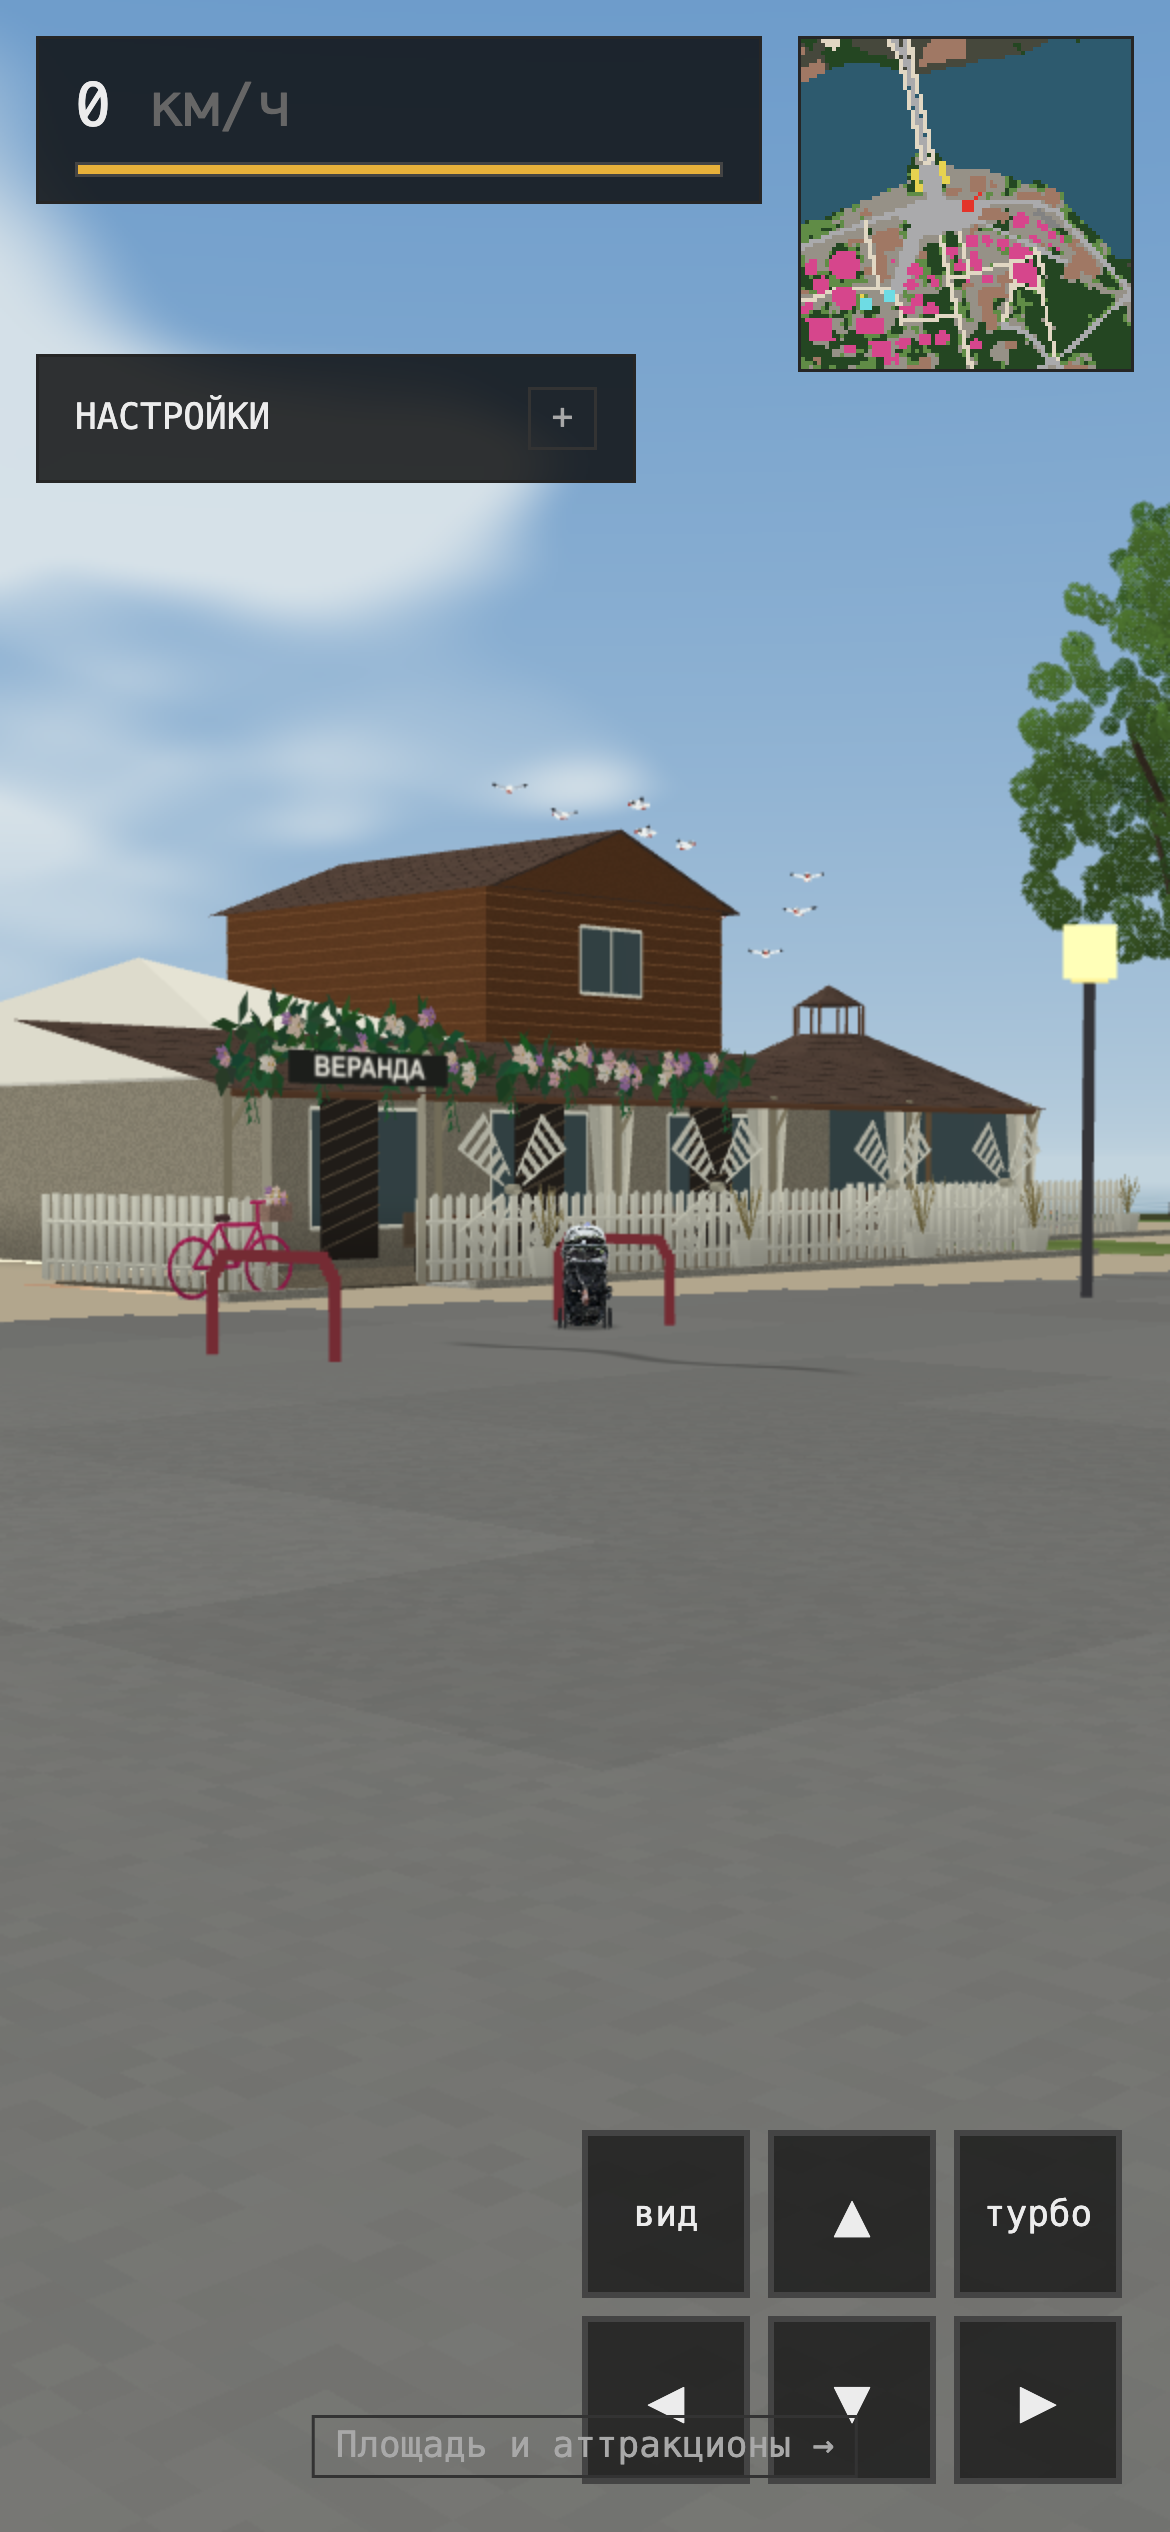
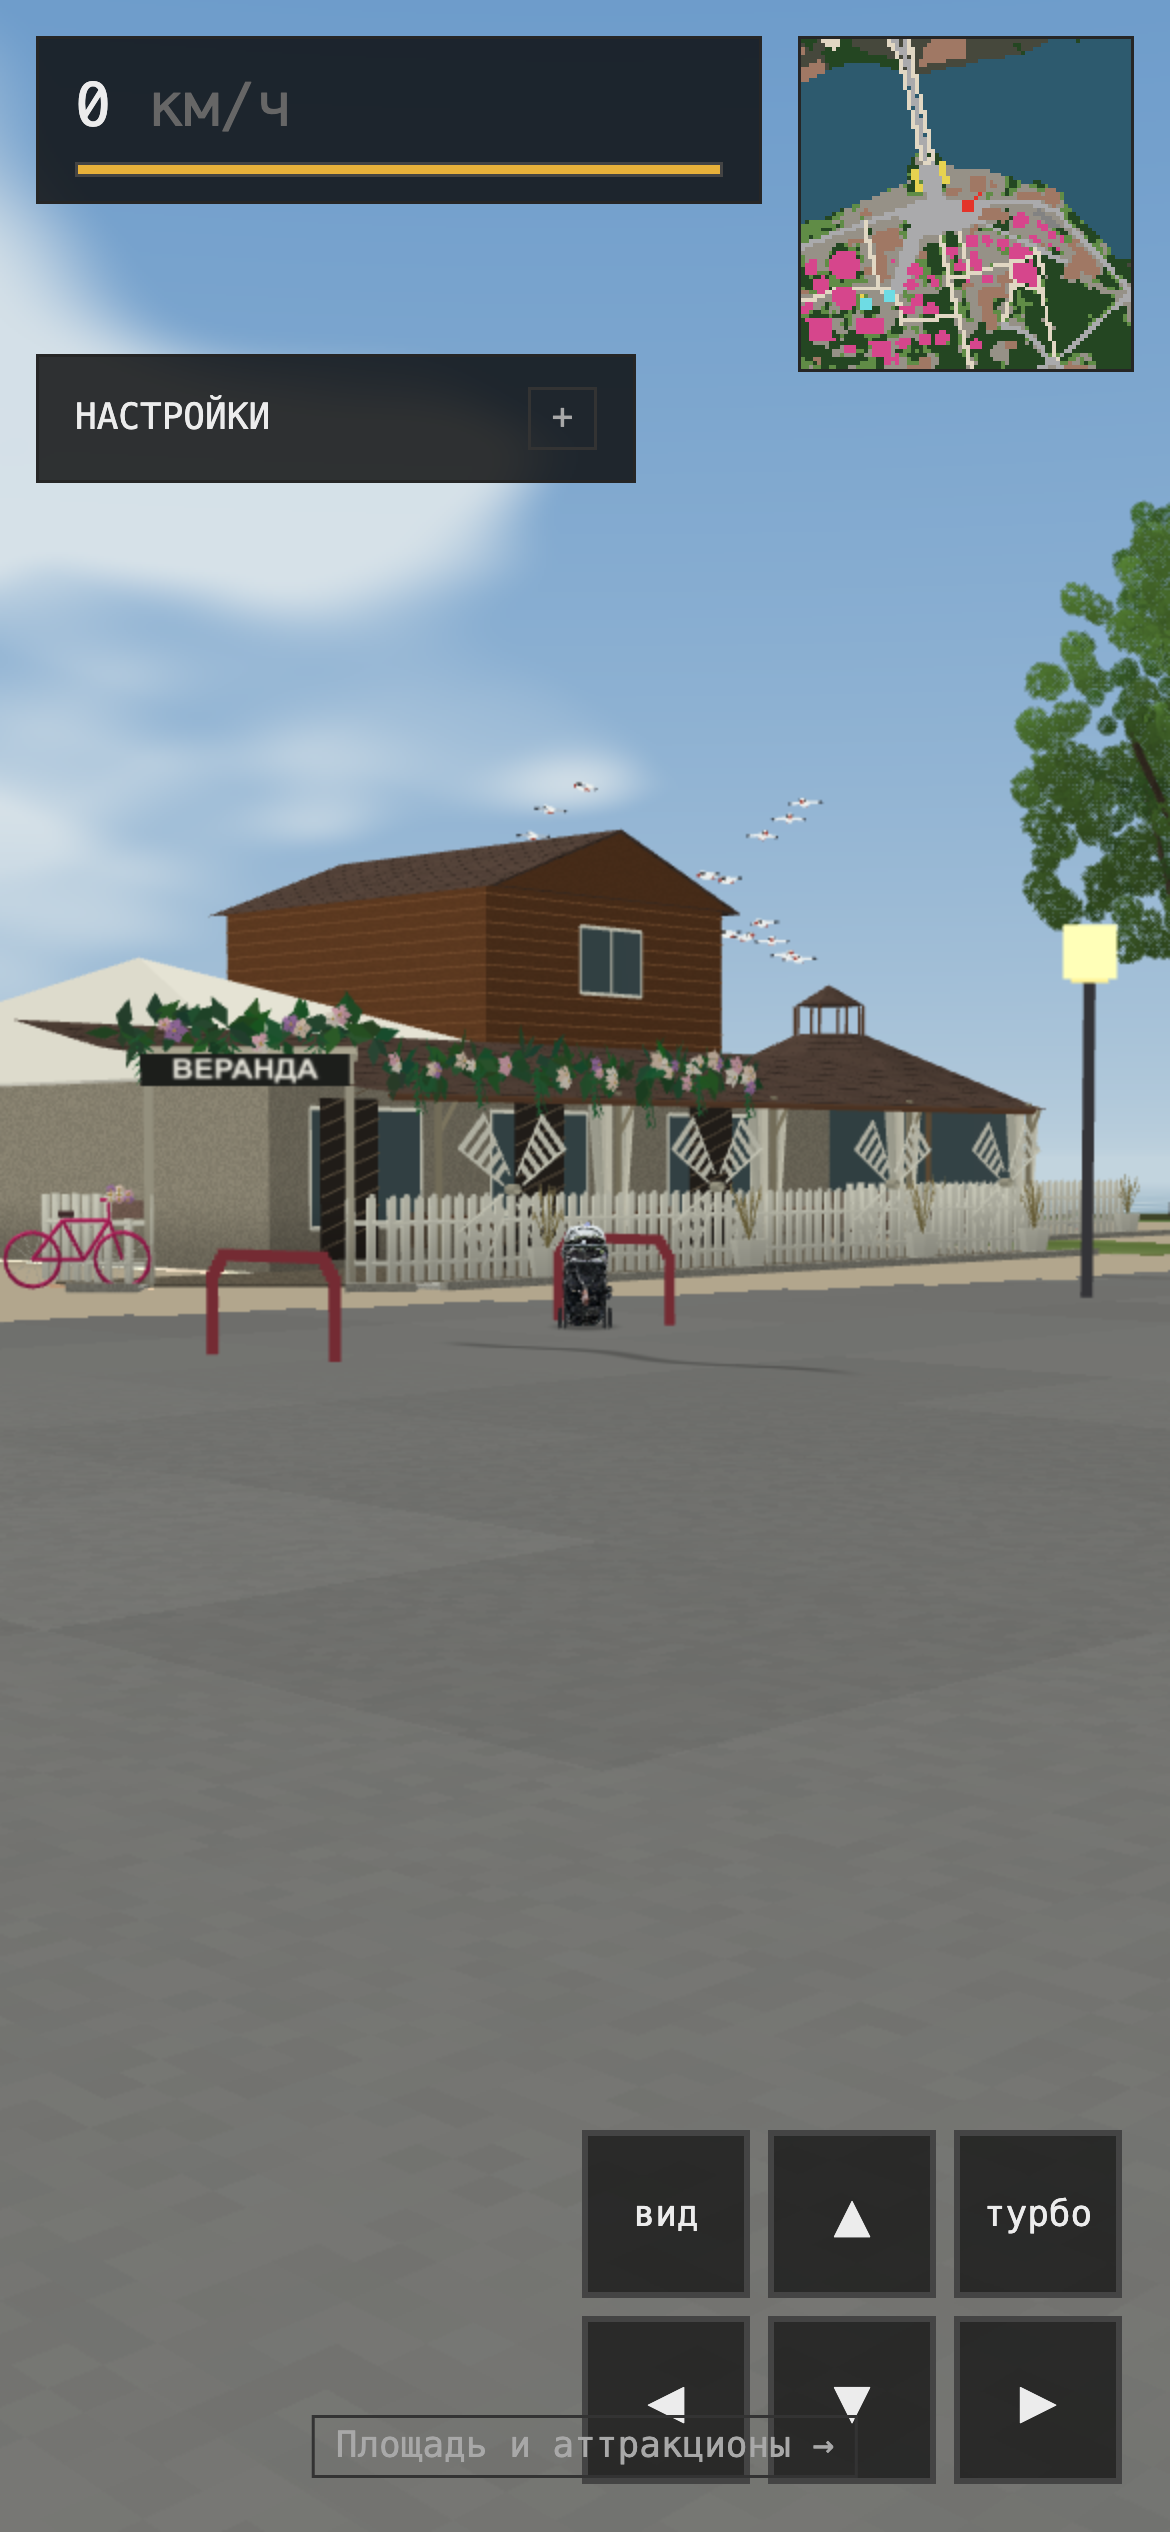
Turn Veranda entrance diagonally toward the bridge

diff --git a/park-veranda.js b/park-veranda.js
@@ -7,8 +7,20 @@ function frame(e){
  const right=[(b[0]-a[0])/width,(b[1]-a[1])/width],front=[-right[1],right[0]];
  return {width,depth,right,front,at:(x,y,d)=>[a[0]+right[0]*x+front[0]*d,y,a[1]+right[1]*x+front[1]*d]};
 }
-function tools(g,e){
- const f=frame(e),at=f.at;
+// The entrance cuts the southwest corner, facing the approach from the bridge.
+function entrance(){
+ const left=[-3.5,1.07],right=[-.95,3.62],center=[(left[0]+right[0])/2,(left[1]+right[1])/2],s=Math.SQRT1_2;
+ return {left,right,center,halfWidth:1.275,halfCorner:Math.hypot(right[0]-left[0],right[1]-left[1])/2,
+  at:(u,y,d)=>[center[0]+s*(u-d),y,center[1]+s*(u+d)]};
+}
+function frontage(e){
+ const gate=entrance(),right=frame(e).width+1;
+ const a=gate.at(-gate.halfWidth,0,0),b=gate.at(gate.halfWidth,0,0);
+ return [[[-3.5,-.3],gate.left],[gate.left,[a[0],a[2]]],[[b[0],b[2]],gate.right],
+  [gate.right,[right,3.62]],[[right,-.3],[right,3.62]]];
+}
+function tools(g,e,localAt){
+ const f=frame(e),at=localAt?(x,y,d)=>f.at(...localAt(x,y,d)):f.at;
  const quad=(a,b,c,d,color,mat=7)=>g.quad(at(...a),at(...b),at(...c),at(...d),color,mat);
  const tri=(a,b,c,color,mat=7)=>g.tri(at(...a),at(...b),at(...c),color,mat);
  const beam=(a,b,r,color=C.wood,mat=7,sides=4)=>g.beam(at(...a),at(...b),r,color,mat,sides);
@@ -140,11 +152,17 @@ function main(g,e){
  quad([bx-bw/2-.24,6.20,front+.28],[bx,7.46,front+.28],[bx,7.46,back-.28],[bx-bw/2-.24,6.20,back-.28],C.roof,14);
  quad([bx,7.46,front+.28],[bx+bw/2+.24,6.20,front+.28],[bx+bw/2+.24,6.20,back-.28],[bx,7.46,back-.28],C.roof,14);
  // An open covered terrace projects toward the promenade.
- const left=-3.5,right=W+1.0,frontD=3.62;
- box((left+right)/2,.015,1.75,right-left,.035,3.7,[.51,.47,.39],1);
- quad([left-.15,2.48,frontD+.2],[right+.15,2.48,frontD+.2],[right+.15,3.48,-.8],[left-.15,3.48,-.8],C.roof,14);
- beam([left,2.46,frontD],[right,2.46,frontD],.065,C.wood);
+ const left=-3.5,right=W+1.0,frontD=3.62,gate=entrance(),entry=tools(g,e,gate.at);
+ const deck=[[left,-.1],[left,gate.left[1]],gate.right,[right,frontD],[right,-.1]];
+ for(let i=1;i<deck.length-1;i++)tri([deck[0][0],.05,deck[0][1]],[deck[i][0],.05,deck[i][1]],[deck[i+1][0],.05,deck[i+1][1]],[.51,.47,.39],1);
+ for(let i=0;i<deck.length;i++){
+  const a=deck[i],b=deck[(i+1)%deck.length];quad([a[0],.015,a[1]],[b[0],.015,b[1]],[b[0],.05,b[1]],[a[0],.05,a[1]],[.51,.47,.39],1);
+ }
+ const roof=[[left-.15,-.8],[left-.15,gate.left[1]+.06],[gate.right[0]-.06,frontD+.2],[right+.15,frontD+.2],[right+.15,-.8]],roofAt=p=>[p[0],3.48-(p[1]+.8)/4.62,p[1]];
+ for(let i=1;i<roof.length-1;i++)tri(roofAt(roof[0]),roofAt(roof[i]),roofAt(roof[i+1]),C.roof,14);
+ beam([gate.right[0],2.46,frontD],[right,2.46,frontD],.065,C.wood);
  for(let x=left;x<=right+.1;x+=(right-left)/5){
+  if(x<gate.right[0])continue;
   beam([x,.04,frontD-.1],[x,2.59,frontD-.1],.065,[.56,.53,.43]);
   beam([x,1.93,frontD-.12],[x+.38,2.47,frontD-.12],.042,[.56,.53,.43]);
   if(x>0){curtain(t,x,frontD-.20,-1);curtain(t,x,frontD-.20,1);}
@@ -155,24 +173,27 @@ function main(g,e){
   for(let y=.35;y<2.4;y+=.25)beam([x-.55,y,.25],[x+.55,y+.38,.25],.014,[.39,.34,.27]);
   table(t,x+1,1.5);
  }
- pickets(t,[left,frontD],[left+.6,frontD]);pickets(t,[-.45,frontD],[right,frontD]);
- pickets(t,[left,-.3],[left,frontD]);pickets(t,[right,-.3],[right,frontD]);
+ for(const [a,b] of frontage(e))pickets(t,a,b);
  // The gravel border and its curb follow the front fence, with a gap at the gate.
- for(const [a,b] of [[left-.9,left+.65],[-.45,right+.45]]){
+ for(const [a,b] of [[gate.right[0],right+.45]]){
   box((a+b)/2,.01,4.13,b-a,.045,.82,[.91,.91,.86],1);
   box((a+b)/2,.005,4.58,b-a,.11,.15,C.stone,1);
  }
+ for(const [a,b] of [[-gate.halfCorner-.35,-gate.halfWidth],[gate.halfWidth,gate.halfCorner+.35]]){
+  entry.box((a+b)/2,.01,.51,b-a,.045,.82,[.91,.91,.86],1);
+  entry.box((a+b)/2,.005,.96,b-a,.11,.15,C.stone,1);
+ }
  for(const x of [1.1,5.3,9.6,12.8]){windmill(t,x,frontD+.14);planter(t,x+.25,4.15);}
- // A separate floral entrance arch sits beside Tut Coffee, before the picket run.
- for(const x of [left+.5,-.45])beam([x,.025,frontD+.02],[x,3.0,frontD+.02],.075,[.72,.70,.61]);
- beam([left+.40,2.98,frontD+.02],[-.35,2.98,frontD+.02],.095,[.72,.70,.61]);
+ // Arch, sign, flowers and bicycle share the same 45-degree entrance frame.
+ for(const u of [-gate.halfWidth,gate.halfWidth])entry.beam([u,.025,0],[u,3.0,0],.075,[.72,.70,.61]);
+ entry.beam([-gate.halfWidth-.10,2.98,0],[gate.halfWidth+.10,2.98,0],.095,[.72,.70,.61]);
  const start=g.data.length;
- quad([left+.47,2.56,frontD+.48],[-.42,2.56,frontD+.48],[-.42,2.96,frontD+.48],[left+.47,2.96,frontD+.48],[0,0,0],15);
+ entry.quad([-1.305,2.56,.46],[1.305,2.56,.46],[1.305,2.96,.46],[-1.305,2.96,.46],[0,0,0],15);
  const uv=[[.02,.95],[.98,.95],[.98,.05],[.02,.95],[.98,.05],[.02,.05]];
  for(let i=0;i<6;i++){g.data[start+i*10+6]=uv[i][0];g.data[start+i*10+7]=uv[i][1];}
- garland(t,left-.18,W*.48,frontD+.11,2.89,7541);
- garland(t,left+.1,-.15,frontD+.11,3.24,3382);
- bicycle(t,left-.45,4.15);
+ garland(t,gate.right[0],W*.48,frontD+.11,2.89,7541);
+ garland(entry,-1.625,1.625,.09,3.24,3382);
+ bicycle(entry,-2.10,.51);
 }
 function gazebo(g,e){
  const t=tools(g,e),{f,quad,tri,beam,box}=t,x=f.width/2,d=-f.depth/2,R=Math.min(f.width,f.depth)*.445;
@@ -204,7 +225,7 @@ function applyGround(cats,park,entries){
   const dx=b[0]-a[0],dz=b[1]-a[1],len=Math.hypot(dx,dz),nx=-dz/len*r,nz=dx/len*r;
   return [[a[0]+nx,a[1]+nz],[b[0]+nx,b[1]+nz],[b[0]-nx,b[1]-nz],[a[0]-nx,a[1]-nz]];
  };
- const fences=[strip(at(-3.5,3.62),at(-2.9,3.62),.20),strip(at(-.45,3.62),at(W+1,3.62),.20),strip(at(-3.5,-.3),at(-3.5,3.62),.20),strip(at(W+1,-.3),at(W+1,3.62),.20)];
+ const fences=frontage(e).map(([a,b])=>strip(at(...a),at(...b),.20));
  const gf=frame(gazeboEntry),ga=gf.at(.6,0,.28),gb=gf.at(gf.width-.6,0,.28);fences.push(strip([ga[0],ga[2]],[gb[0],gb[2]],.20));
  const octagon=footprint(gazeboEntry),inside=(p,x,z)=>{let hit=false;for(let i=0,j=p.length-1;i<p.length;j=i++)if((p[i][1]>z)!==(p[j][1]>z)&&x<(p[j][0]-p[i][0])*(z-p[i][1])/(p[j][1]-p[i][1])+p[i][0])hit=!hit;return hit;};
  const nearOldGazebo=(x,z)=>gazeboEntry.pts.some((a,i)=>{
@@ -227,6 +248,6 @@ function atlas(){
  c.textAlign='center';c.textBaseline='middle';c.fillStyle='#f4f2e7';c.font='bold 148px Arial, sans-serif';
  c.save();c.translate(512,101);c.scale(.96,1);c.fillText('ВЕРАНДА',0,0);c.restore();return canvas;
 }
-const api={frame,main,gazebo,footprint,clearsTree,applyGround,atlas};
+const api={frame,entrance,main,gazebo,footprint,clearsTree,applyGround,atlas};
 if(typeof module!=='undefined'&&module.exports)module.exports=api;else root.ParkVeranda=api;
 })(typeof window!=='undefined'?window:globalThis);

diff --git a/tests/veranda.test.js b/tests/veranda.test.js
@@ -28,6 +28,14 @@ test('Veranda has an open floral terrace, white fence, pink bicycle and a shingl
  assert(g.data.some((v,i)=>i%10===1&&v>5.3),'the gazebo has a raised roof lantern');
 });
 
+test('the entrance sign faces the bridge at 45 degrees to the promenade',()=>{
+ const mesh=Meshes.build(main),f=Veranda.frame(main),sign=[];
+ for(let i=0;i<mesh.data.length;i+=10)if(mesh.data[i+9]===15)sign.push(Array.from(mesh.data.subarray(i,i+3)));
+ const dx=sign[1][0]-sign[0][0],dz=sign[1][2]-sign[0][2],length=Math.hypot(dx,dz);
+ const along=(dx*f.right[0]+dz*f.right[1])/length,towardStreet=(dx*f.front[0]+dz*f.front[1])/length;
+ assert(Math.abs(along-Math.SQRT1_2)<1e-5&&Math.abs(towardStreet-Math.SQRT1_2)<1e-5,'the delivered sign geometry must follow the diagonal southwest entrance');
+});
+
 test('the entrance stays passable, the terrace fence blocks, and the gazebo frees its old square corners',()=>{
  const cats=new Uint8Array(park.w*park.h).fill(75),index=(x,z)=>Math.floor((z-park.z0)/park.mpp)*park.w+Math.floor((x-park.x0)/park.mpp);
  for(const e of [main,gazebo]){
@@ -36,7 +44,9 @@ test('the entrance stays passable, the terrace fence blocks, and the gazebo free
  }
  const f=Veranda.frame(main),at=(x,d)=>{const p=f.at(x,0,d);return index(p[0],p[2]);},gf=Veranda.frame(gazebo),corner=gf.at(.3,0,-.3),water=index(55,-430),coffee=index(33,-406);
  cats[water]=68;cats[coffee]=69;Veranda.applyGround(cats,park,all);
- assert.equal(cats[at(-1.6,3.62)],75,'the gate in the left floral arch is open');
+ const gate=Veranda.entrance();
+ for(const d of [-.8,0,.8]){const p=gate.at(0,0,d);assert.equal(cats[at(p[0],p[2])],75,'the diagonal gate and its approach are open');}
+ const end=gate.at(1.65,0,0);assert.equal(cats[at(end[0],end[2])]&31,13,'the diagonal fence meets the right arch post');
  assert.equal(cats[at(5,3.62)]&31,13,'the white picket fence blocks the stroller');
  assert.equal(cats[at(5,7.5)],75,'the public promenade remains open');
  assert.equal(cats[index(gazebo.cx,gazebo.cz)]&31,5);

diff --git a/park.html b/park.html
@@ -155,13 +155,13 @@
 <script src="park-transylvania.js?v=20261022-transylvania1"></script>
 <script src="park-upside-down-house.js?v=20261022-shore1"></script>
 <script src="park-house-surroundings.js?v=20261022-shore2"></script>
-<script src="park-veranda.js?v=20261022-veranda1"></script>
-<script src="park-meshes.js?v=20261022-veranda1"></script>
+<script src="park-veranda.js?v=20261022-veranda2"></script>
+<script src="park-meshes.js?v=20261022-veranda2"></script>
 <script src="park-atmosphere.js?v=20261022-natural1"></script>
 <script src="park-performance.js"></script>
 <script src="park-streaming.js"></script>
 <script src="small-wildlife.js?v=20261021-small-animals"></script>
 <script src="jay-voice.js?v=20261021-sonogram"></script>
-<script src="park.js?v=20261022-veranda1"></script>
+<script src="park.js?v=20261022-veranda2"></script>
 </body>
 </html>

diff --git a/park.js b/park.js
@@ -2357,7 +2357,7 @@
       loadImage('park/ground.png?v=20261020-approach2'),
       loadImage('park/albedo.jpg'),
       fetch('park/scans.json').then(function (r) { if (!r.ok) throw new Error('scans.json ' + r.status); return r.json(); }),
-      fetch('park/stream-manifest.json?v=20261022-veranda1').then(function(r) {if(!r.ok) throw new Error('stream manifest '+r.status);return r.json();}),
+      fetch('park/stream-manifest.json?v=20261022-veranda2').then(function(r) {if(!r.ok) throw new Error('stream manifest '+r.status);return r.json();}),
     ]);
     park = res[0];
     var meshEntries=ParkMeshes.entries(park);

diff --git a/tests/veranda_browser.py b/tests/veranda_browser.py
@@ -83,13 +83,15 @@ with sync_playwright() as p:
     probes=page.evaluate("""async () => {
       const park=await (await fetch('park/park.json')).json(),entries=ParkMeshes.entries(park);
       const e=entries.find(e=>e.kind==='veranda'),g=entries.find(e=>e.kind==='verandaGazebo');
-      const f=ParkVeranda.frame(e),gf=ParkVeranda.frame(g),p=(name,q,blocked)=>({name,x:q[0],z:q[2],blocked});
-      return [p('floral_gate',f.at(-1.6,0,3.62),false),p('picket_fence',f.at(5,0,3.62),true),
+      const f=ParkVeranda.frame(e),gf=ParkVeranda.frame(g),p=(name,q,blocked,heading=0)=>({name,x:q[0],z:q[2],blocked,heading});
+      const gate=ParkVeranda.entrance(),q=gate.at(0,0,0),end=gate.at(1.65,0,0);
+      const heading=Math.atan2((f.right[0]-f.front[0])*Math.SQRT1_2,(-f.right[1]+f.front[1])*Math.SQRT1_2);
+      return [p('floral_gate',f.at(...q),false,heading),p('diagonal_fence',f.at(...end),true,heading),p('picket_fence',f.at(5,0,3.62),true),
         p('gazebo_freed_corner',gf.at(.4,0,-.9),false),p('cafe_body',[e.cx,0,e.cz],true),
         p('gazebo_body',[g.cx,0,g.cz],true)];
     }""")
     for probe in probes:
-        page.evaluate('p=>{__car.x=p.x;__car.z=p.z;__car.heading=0;__car.v=0;__car.steer=0;}',probe)
+        page.evaluate('p=>{__car.x=p.x;__car.z=p.z;__car.heading=p.heading;__car.v=0;__car.steer=0;}',probe)
         page.keyboard.down('w');page.wait_for_timeout(700);page.keyboard.up('w')
         moved=math.dist([probe['x'],probe['z']],page.evaluate('[__car.x,__car.z]'))
         report['physics'][probe['name']]={'metres':moved,'category':page.evaluate('__stats.car.cat')}

diff --git a/docs/references/README.md b/docs/references/README.md
@@ -12,6 +12,9 @@
 беседка с башенкой. Добавлены белый штакетник, занавеси, решётки и столики,
 цветочная арка с вывеской «ВЕРАНДА», четыре декоративные мельницы, кашпо
 с травами, белая гравийная полоса и розовый велосипед с цветочной корзиной.
+По уточнению Максима вход срезает юго-западный угол под 45° к дорожке:
+арка, вывеска, цветы и велосипед повёрнуты к подходу от моста, ограда,
+гравий и крыша террасы примыкают к диагональному проходу.
 Листья и лепестки объёмные, вывеска рисуется кодом; панорамные пиксели,
 прохожие и интерфейс карты в материалы игры не включены.
 
